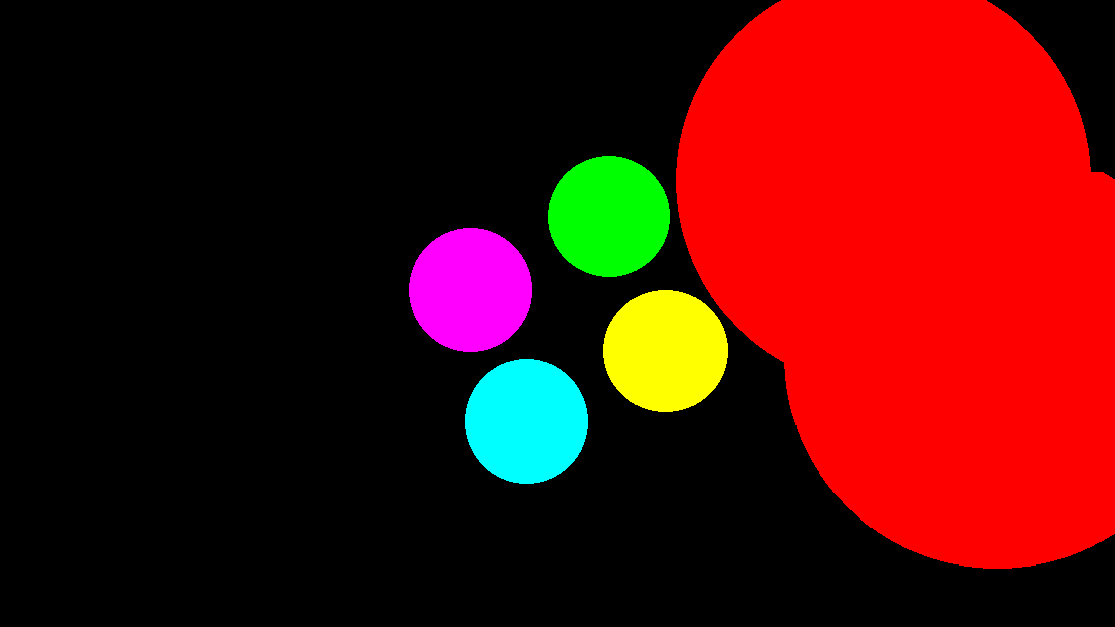
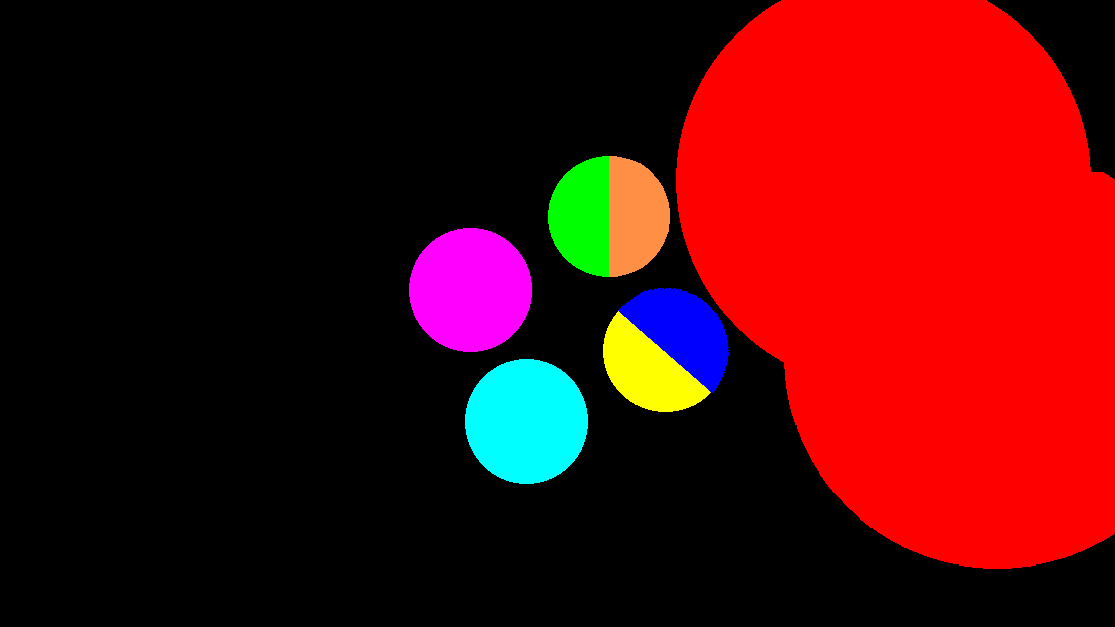
Added correct/incorrect positions

Changed region(s): [[0.5489, 0.2424, 0.6709, 0.6364]]

diff --git a/src/data.ts b/src/data.ts
@@ -2,6 +2,7 @@ export interface Player {
   name: string;
   group: 1 | 2 | 3 | 4;
   role: string;
+  isMobile: boolean;
 }
 
 export interface Spot {
@@ -11,26 +12,26 @@ export interface Spot {
 }
 
 export const players: Player[] = [
-  { name: "Bloodbornd",  group: 1, role: "Tank" },
-  { name: "Cocorota",    group: 1, role: "Melee" },
-  { name: "Teese",    group: 1, role: "Melee" },
-  { name: "Garrïdan",   group: 1, role: "Melee" },
-  { name: "Bunnyson",    group: 1, role: "Healer" },
-  { name: "Rinók",   group: 2, role: "Ranged" },
-  { name: "Zopenric",  group: 2, role: "Melee" },
-  { name: "Nyldur",   group: 2, role: "Melee" },
-  { name: "Barrydruid",    group: 2, role: "Healer" },
-  { name: "Géodes",   group: 2, role: "Healer" },
-  { name: "Cooldan",   group: 3, role: "Ranged" },
-  { name: "Zylua",   group: 3, role: "Ranged" },
-  { name: "Brewcarry",   group: 3, role: "Tank" },
-  { name: "Dellilah",    group: 3, role: "Healer" },
-  { name: "Okito",  group: 3, role: "Healer" },
-  { name: "Demiân",  group: 4, role: "Ranged" },
-  { name: "Spaceypriest",   group: 4, role: "Ranged" },
-  { name: "Shadraen",    group: 4, role: "Melee" },
-  { name: "Kaiserto",   group: 4, role: "Ranged" },
-  { name: "Minarete",   group: 4, role: "Healer" },
+  { name: "Bloodbornd",   group: 1, role: "Tank",   isMobile: false },
+  { name: "Cocorota",     group: 1, role: "Melee",  isMobile: false },
+  { name: "Teese",        group: 1, role: "Melee",  isMobile: false },
+  { name: "Garrïdan",     group: 1, role: "Melee",  isMobile: false },
+  { name: "Bunnyson",     group: 1, role: "Healer", isMobile: false },
+  { name: "Rinók",        group: 2, role: "Ranged", isMobile: false },
+  { name: "Zopenric",     group: 2, role: "Melee",  isMobile: false },
+  { name: "Nyldur",       group: 2, role: "Melee",  isMobile: false },
+  { name: "Barrydruid",   group: 2, role: "Healer", isMobile: false },
+  { name: "Géodes",       group: 2, role: "Healer", isMobile: false },
+  { name: "Demiân",       group: 3, role: "Ranged", isMobile: false },
+  { name: "Spaceypriest", group: 3, role: "Ranged", isMobile: false },
+  { name: "Shadraen",     group: 3, role: "Melee",  isMobile: false },
+  { name: "Kaiserto",     group: 3, role: "Ranged", isMobile: false },
+  { name: "Minarete",     group: 3, role: "Healer", isMobile: false },
+  { name: "Cooldan",      group: 4, role: "Ranged", isMobile: false },
+  { name: "Zylua",        group: 4, role: "Ranged", isMobile: false },
+  { name: "Brewcarry",    group: 4, role: "Tank",   isMobile: false },
+  { name: "Dellilah",     group: 4, role: "Healer", isMobile: false  },
+  { name: "Okito",        group: 4, role: "Healer", isMobile: false },
 ];
 
 export const spots: Spot[] = [
@@ -38,6 +39,41 @@ export const spots: Spot[] = [
   { id: "S2", label: "2", maskRgb: [ 255, 255,   0 ] },
   { id: "S3", label: "3", maskRgb: [ 255,   0, 255 ] },
   { id: "S4", label: "4", maskRgb: [   0, 255, 255 ] },
-  { id: "S5", label: "5", maskRgb: [ 255,   0,   0 ] },
-  { id: "S6", label: "6", maskRgb: [   0,   0,   0 ] },
+  { id: "S5", label: "5", maskRgb: [   0,   0, 255 ] },
+  { id: "S6", label: "6", maskRgb: [ 255, 143,  68 ] },
+  { id: "S7", label: "7", maskRgb: [ 255,   0,   0 ] },
+  { id: "S8", label: "8", maskRgb: [   0,   0,   0 ] },
 ];
+
+export function isInSafeSpot(spot: Spot, player: Player, hasSoak: boolean = false, currentSoaks: number[] = []) {
+  if (player.role == "Melee" || player.role == "Ranged" || player.role == "Tank") {
+    return player.group == Number(spot.label);
+  }
+  if (!hasSoak) {
+    if (player.group == 1) {
+      return Number(spot.label) == 6;
+    }
+    if (player.group == 2) {
+      return Number(spot.label) == 5;
+    }
+    return Number(spot.label) == 5 || Number(spot.label) == 6;
+  }
+  if (!player.isMobile) {
+    if (player.group == Number(spot.label)) {
+      return true;
+    }
+    if (player.group == 1) {
+      return Number(spot.label) == 6;
+    }
+    if (player.group == 2) {
+      return Number(spot.label) == 5;
+    }
+    return false;
+  }
+  const allPositions = [1, 2, 3, 4];
+  for (const n in currentSoaks) {
+    allPositions[n] = 0;
+  }
+  const remainingPosition = allPositions.find(v => v != 0);
+  return remainingPosition === Number(spot.label);
+}

diff --git a/src/app.ts b/src/app.ts
@@ -1,5 +1,5 @@
 // app.ts
-import type { Player, Spot } from "./data.js";
+import { isInSafeSpot, type Player, type Spot } from "./data.js";
 import {
     getSelectedPlayer, getSelectedSpot, getSelectedPosition,
     setSelectedPlayer, setSelectedSpot, setSelectedPosition, resetState
@@ -60,7 +60,11 @@ async function handleActionButtonClick(): Promise<void> {
             posY: pos[1]
         });
 
-        renderer.showModal("Success!", "Good job :)");
+        if (isInSafeSpot(spot, player, true, [0, 1, 2, 0])) {
+            renderer.showModal("Correcto", "Buen trabajo :)");
+        } else {
+            renderer.showModal("Incorrecto", "... :(");
+        }
         resetTrackingVariables();
     } catch (error) {
         console.error("Could not connect to database:", error);

diff --git a/index.html b/index.html
@@ -23,9 +23,7 @@
             <div id="spots-layer"></div>
             <button id="map-action-btn" class="action-btn" disabled>Enviar selección</button>
         </div>
-        <div class="status-bar" id="status-bar">
-          <span>Select your name from the roster, then click your spot.</span>
-        </div>
+
       </div>
     </div>
   </div>

diff --git a/style.css b/style.css
@@ -175,6 +175,10 @@ body {
 }
 
 dialog {
+  position: fixed;
+  top: 50%;
+  left: 50%;
+  transform: translate(-50%, -50%);
   border: none;
   border-radius: 12px;
   padding: 0;